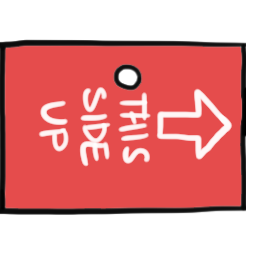
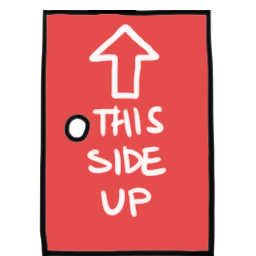
Door timeout when you finish stage

diff --git a/main.cpp b/main.cpp
@@ -87,7 +87,7 @@ void initialiseLevel0() {
     game.platforms.assign(plats, plats + (size_t) nPlats);
     
     game.zoom = 1.2;
-    Door door = Door(6, 0, dir_left);
+    Door door = Door(6, 0, dir_up);
     game.door = door;
 }
 
@@ -137,12 +137,14 @@ void initialiseLevel2() {
 
 
 void initialiseLevel3() {
-    int nPlats = 4;
+    int nPlats = 6;
     Platform plats[nPlats] = {
         Platform(2, 0, 1, 1, false, dir_up),
         Platform(2, 2, 1, 1, true, dir_up),
         Platform(0, 4, 1, 1, true, dir_right),
         Platform(4, 4, 1, 1, true, dir_left),
+        Platform(0, 0, 0, 0, true, dir_down),
+        Platform(4, 0, 0, 0, true, dir_down),
     };
     
     game.nTilesX = 5;
@@ -185,15 +187,15 @@ void initialiseLevel5() {
     int nPlats = 6;
     Platform plats[nPlats] = {
         Platform(0, 0, 0, 0, true, dir_up),
-        Platform(1, 1, 0, 0, true, dir_down),
+        Platform(1, 2, 0, 0, true, dir_down),
         Platform(2, 0, 0, 0, true, dir_up),
-        Platform(0, 2, 0, 0, true, dir_up),
-        Platform(2, 2, 0, 0, true, dir_up),
-        Platform(1, 4, 1, 0, true, dir_right),
+        Platform(0, 3, 0, 0, true, dir_up),
+        Platform(2, 3, 0, 0, true, dir_up),
+        Platform(1, 5, 1, 0, true, dir_right),
     };
     
     game.nTilesX = 3;
-    game.nTilesY = 5;
+    game.nTilesY = 6;
     game.player = Player();
     gridToActual(1, 0, &game.player.x, &game.player.y);
     // game.player.setOrientation(dir_right);
@@ -287,7 +289,13 @@ void initialiseMenu() {
 }
 
 void updateGame() {
-    if (game.puzzleComplete) return;
+    if (game.puzzleComplete) {
+        game.door.endStageTimeout--;
+        if (game.door.endStageTimeout <= 0) {
+            initialiseMenu();
+        }
+        return;
+    }
 
     game.key.update();
     game.background.update(game.key);

diff --git a/gameobjects.cpp b/gameobjects.cpp
@@ -628,47 +628,34 @@ Door::Door(int cx, int cy, int orientation) {
 
     shape = sf::RectangleShape();
     shape.setFillColor(sf::Color::Yellow);
+
+    this->endStageTimeout = 60;
 }
 
 void Door::draw() {
-    float width = TILE_WIDTH*1/2;
-    float height_top = TILE_WIDTH*1/2;
-    float height_bottom = TILE_WIDTH*1/2;
+    float w = TILE_WIDTH*1/2;
 
     float x1,y1,x2,y2;
     switch(orientation) {
         case dir_up:
-            x1 = x-width;
-            x2 = x+width;
-            y1 = y-height_top;
-            y2 = y+height_bottom;
+            drawSprite(&sprite,x-w,y-w,x-w,y+w,x+w,y+w);
             break;
         case dir_right:
-            y1 = y-width;
-            y2 = y+width;
-            x1 = x-height_bottom;
-            x2 = x+height_top;
+            drawSprite(&sprite,x+w,y-w,x-w,y-w,x-w,y+w);
             break;
         case dir_down:
-            x1 = x-width;
-            x2 = x+width;
-            y1 = y-height_bottom;
-            y2 = y+height_top;
+            drawSprite(&sprite,x+w,y+w,x+w,y-w,x-w,y-w);
             break;
         case dir_left:
-            y1 = y-width;
-            y2 = y+width;
-            x1 = x-height_top;
-            x2 = x+height_bottom;
+            drawSprite(&sprite,x-w,y+w,x+w,y+w,x+w,y-w);
             break;
     }
 
     //drawRectangle(&shape,x1,y1,x1,y2,x2,y2);
-    drawSprite(&sprite,x1,y1,x1,y2,x2,y2);
+    //drawSprite(&sprite,x1,y1,x1,y2,x2,y2);
 }
 
 void Door::update(Keyboard k) {
-    if (game.puzzleComplete) return;
     if (game.camera.rotating) return;
     if (game.player.currentPlatform->isNull) return;
     if (game.player.orientation != orientation) return;

diff --git a/gameobjects.h b/gameobjects.h
@@ -87,6 +87,7 @@ public:
     int cy;
     bool rotatable;
     int orientation;
+    int endStageTimeout;
     
     Door();
     
